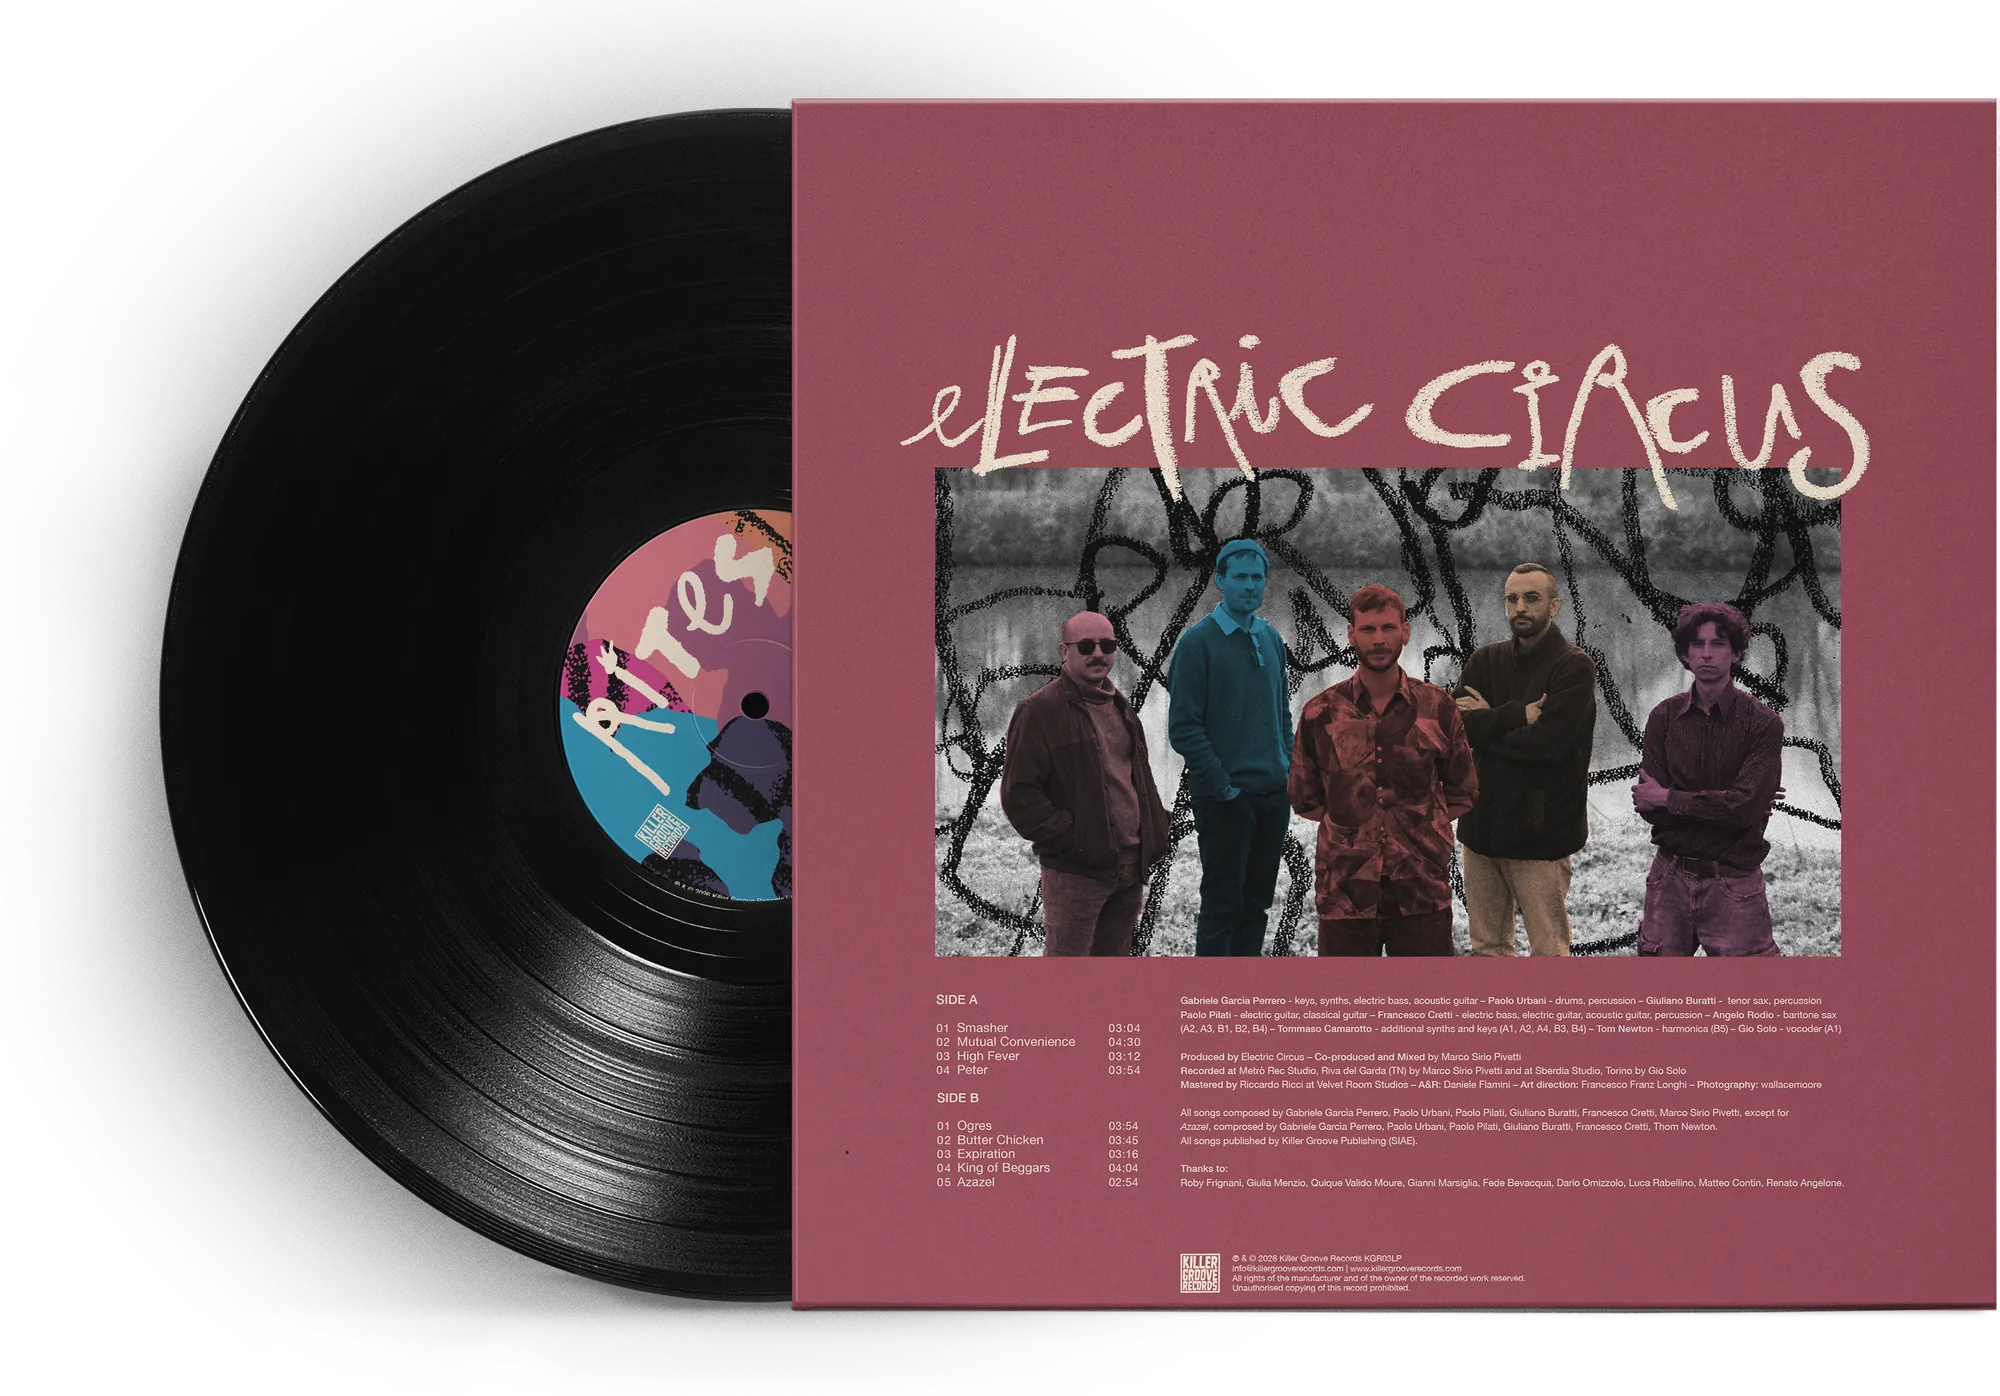
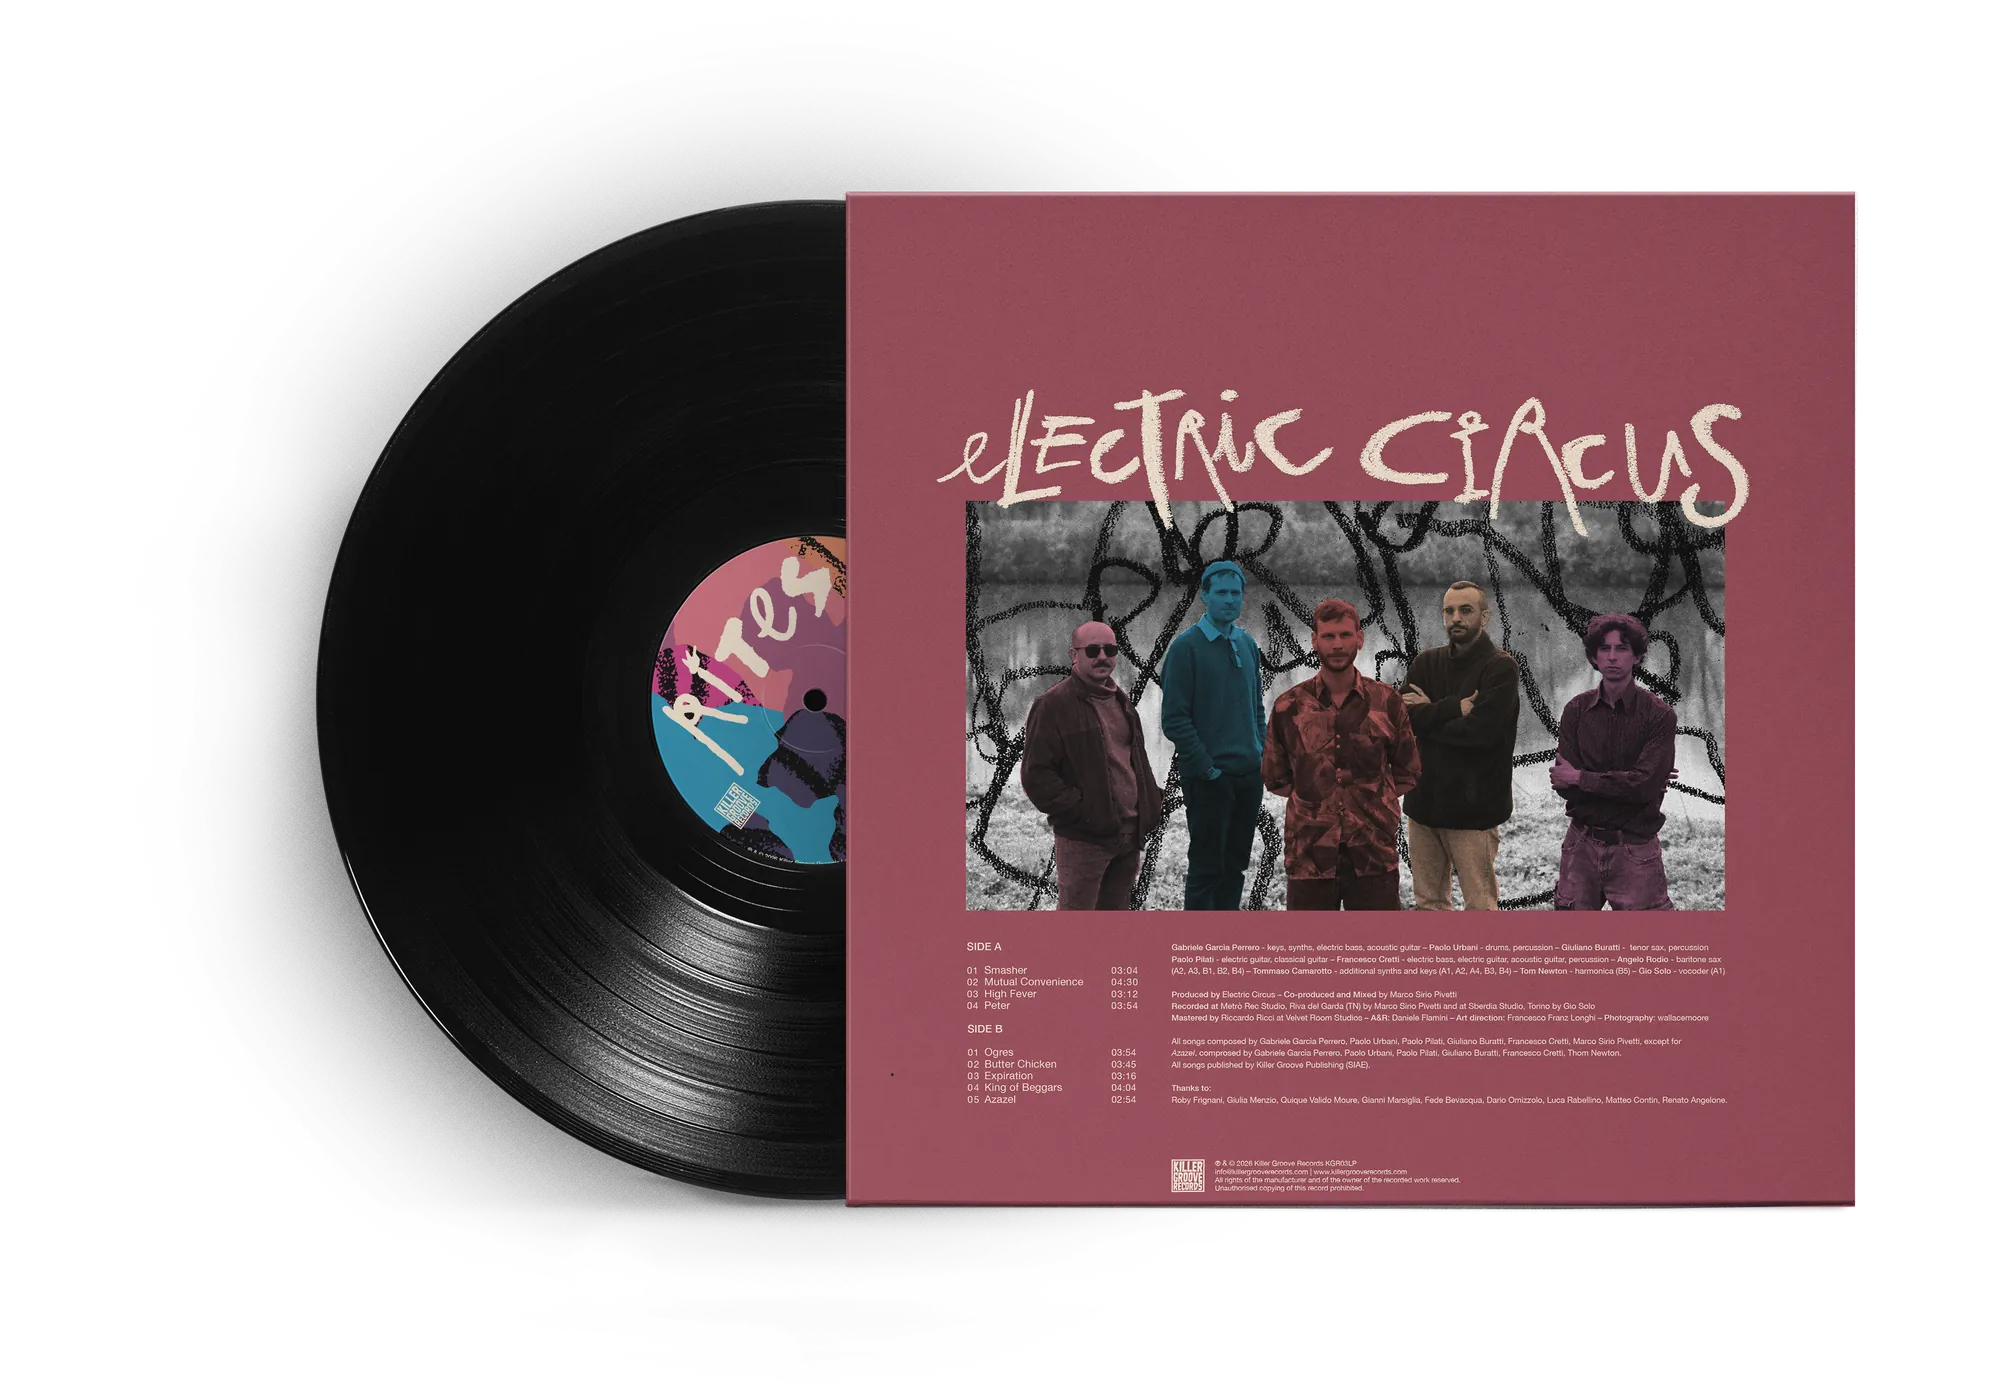
fix: keep full drop shadow on Rites vinyl mockups

diff --git a/components/AlbumMockupFlip.tsx b/components/AlbumMockupFlip.tsx
@@ -28,7 +28,7 @@ export default function AlbumMockupFlip() {
         type="button"
         onClick={() => setActive((i) => (i + 1) % faces.length)}
         aria-label={`Show ${faces[(active + 1) % faces.length].label.toLowerCase()} of the ${featuredAlbum.title} vinyl`}
-        className="vinyl-img relative block w-full aspect-[2000/1396] cursor-pointer"
+        className="vinyl-img relative block w-full aspect-[2000/1400] cursor-pointer"
       >
         {faces.map((face, i) => (
           <Image
